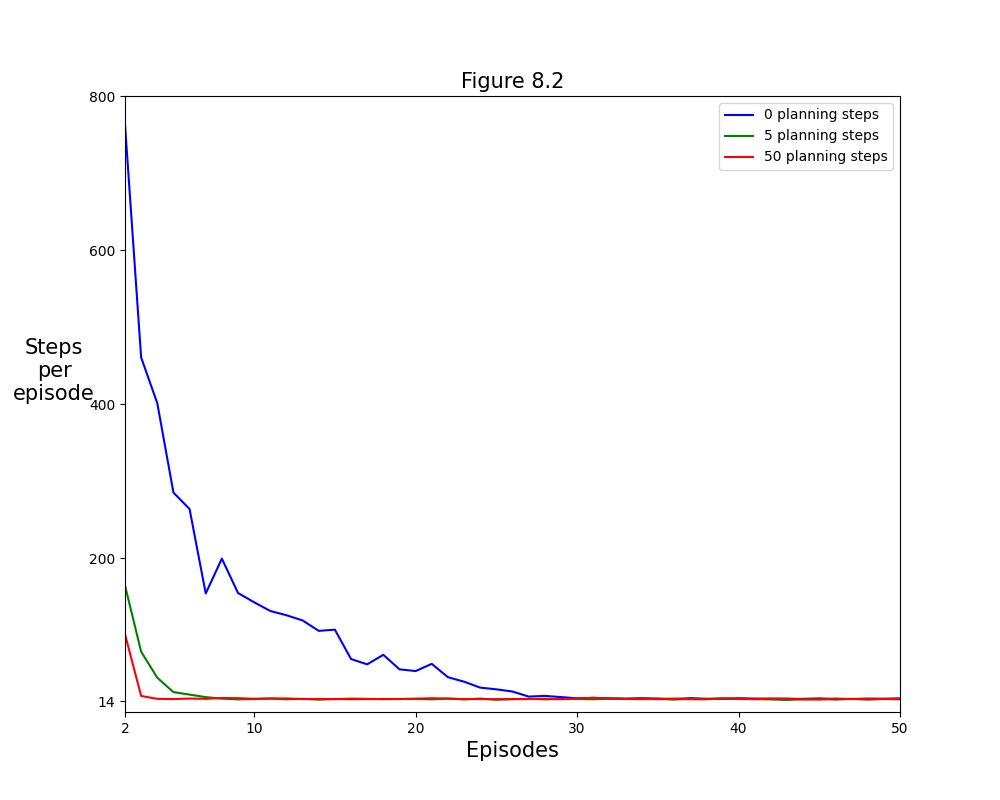
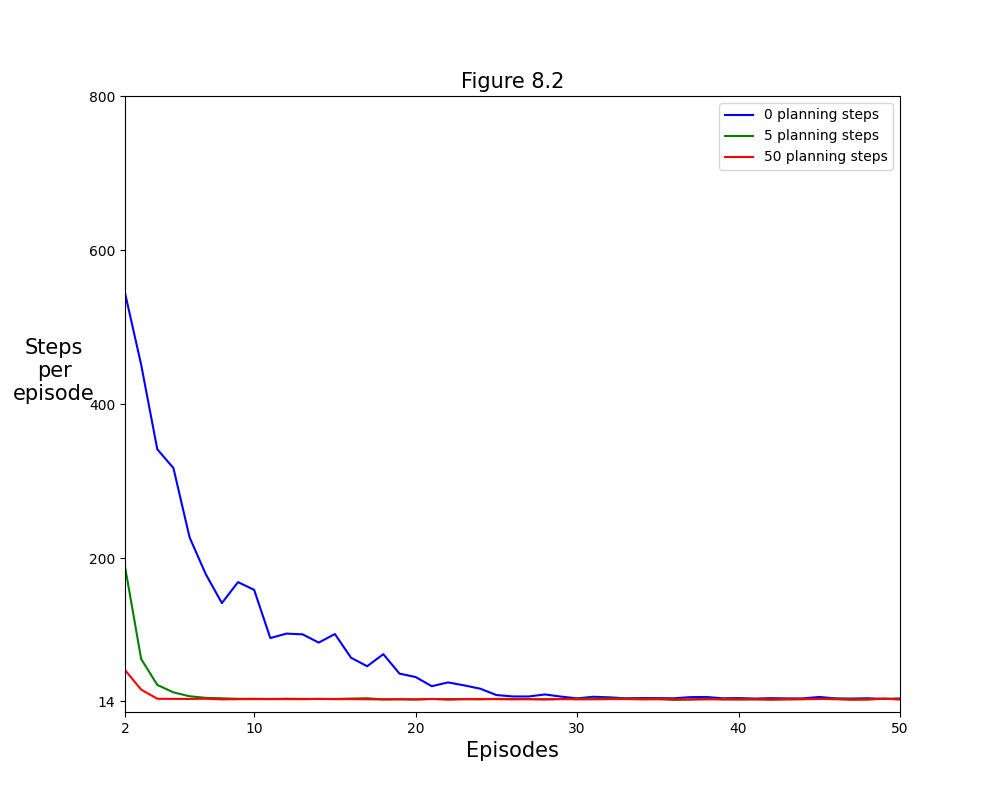
ex8.1

diff --git a/chapter8/nstep_sarsa.py b/chapter8/nstep_sarsa.py
@@ -1,0 +1,135 @@
+import numpy as np
+import copy
+
+class TD:
+  def __init__(self, env, V_init=None, step_size=None, gamma=0.9, n=1):
+    self.env = env
+    self.gamma = gamma
+    self.V_init = V_init
+    self.step_size = step_size
+    self.n = n
+    self.reset()
+
+  def sample_action(self, pi, s):
+    pi_dist = [pi[(a, s)] for a in self.env.moves_d[s]]
+    return self.env.moves_d[s][np.random.choice(np.arange(len(self.env.moves_d[s])), p=pi_dist)]
+  
+  def seed(self, seed):
+    self.env.seed(seed)
+    np.random.seed(seed)
+ 
+  def get_value_list(self):
+    return [val for key,val in self.V.items()]
+  
+  def reset(self):
+    self.V = {s: 0 for s in self.env.states} if self.V_init is None else copy.deepcopy(self.V_init)
+
+class nStepTD(TD):
+  def __init__(self, env, V_init=None, step_size=None, gamma=0.9, n=1, ex_7_2=False):
+    super().__init__(env, V_init, step_size, gamma, n)
+    self.reset()
+
+  def get_r_values(self, R, i, j):
+    n = self.n
+    orig_mod = mod_idx = i % (n + 1)
+    goal = j % (n + 1)
+    R_vals = []
+    while True:
+      R_vals.append(R[mod_idx])
+      mod_idx = (mod_idx + 1) % (n + 1)
+      if mod_idx == goal:
+        return R_vals
+
+  def reset(self):
+    self.gamma_l = [self.gamma ** k for k in range(self.n + 1)]
+    self.S = [None for _ in range(self.n + 1)]
+    self.R = [None for _ in range(self.n + 1)]
+    super().reset() 
+
+
+class nStepSarsa(nStepTD):
+  def __init__(self, env, step_size=0.1, gamma=0.9, n=1, eps=0.1, exp_sar=False): 
+    super().__init__(env, None, step_size, gamma, n)
+    self.update_pi = self.update_policy(eps)
+    self.exp_sar = exp_sar
+    self.reset()
+
+  def eps_gre(self, eps):
+    def eps_gre_pol(s):
+      if np.random.random() < eps:
+        return self.random_move(s)
+      q_arr = np.array([self.Q[(s, a)] for a in self.env.moves_d[s]])
+      return self.env.moves_d[s][np.random.choice(np.flatnonzero(q_arr == q_arr.max()))]
+    return eps_gre_pol
+ 
+  def update_policy(self, eps):
+    def update_on_q_values(s):
+      best_a = self.eps_gre(0)(s)
+      moves = self.env.moves_d[s]
+      soft_min = eps / len(moves)
+      for a in moves:
+        self.pi[(a, s)] = soft_min + (1 - eps) * (a == best_a)
+    return update_on_q_values
+
+  def initialize_pi(self):
+    self.pi = {}
+    for s in self.env.states:
+      self.update_pi(s)
+    return self.pi
+ 
+  def exp_val(self, s):
+    return sum(self.pi[(a, s)] * self.Q[(s, a)] for a in self.env.moves_d[s])
+
+  def n_step_return_q(self, tau, T):
+    n = self.n
+    max_idx = min(tau + n, T)
+    r_vals = self.get_r_values(self.R, tau + 1, max_idx + 1)
+    G = np.dot(self.gamma_l[:max_idx-tau], r_vals)
+    if tau + n < T:
+      tau_p_n = (tau + n) % (n + 1)
+      s, a = self.S[tau_p_n], self.A[tau_p_n]
+      last_term = self.Q[(s, a)] if not self.exp_sar else self.exp_val(s)
+      G = G + self.gamma_l[n] * last_term
+    return G
+
+  def pol_eval(self, n_ep=100, pi=None):
+    n, R, S, Q, A = self.n, self.R, self.S, self.Q, self.A
+    pi_learned = pi is None
+    self.pi = self.initialize_pi() if pi_learned else pi
+    ep_per_t = [] 
+    for ep in range(n_ep):
+      S[0] = self.env.reset()
+      A[0] = self.sample_action(self.pi, S[0])
+      T = np.inf
+      t = 0
+      while True:
+        ep_per_t.append(ep)
+        tm, tp1m = t % (n + 1), (t + 1) % (n + 1)
+        if t < T:
+          S[tp1m], R[tp1m], d, _ = self.env.step(A[tm])
+          if d:
+            T = t + 1
+          else:
+            A[tp1m] = self.sample_action(self.pi, S[tp1m])
+        tau = t - n + 1
+        if tau >= 0:
+          G = self.n_step_return_q(tau, T)
+          taum = tau % (n + 1)
+          s, a = S[taum], A[taum]
+          Q[(s, a)] += self.step_size * (G - Q[(s, a)])
+          if pi_learned:
+            self.update_pi(s)
+        if tau == (T - 1):
+          break
+        t += 1
+    return ep_per_t
+
+
+  def get_v(self):
+    return {s: max(self.Q[(s, a)] for a in self.env.moves_d[s]) for s in self.env.states} 
+
+  def reset(self):
+    super().reset()
+    self.Q = {(s, a): 0 for s in self.env.states for a in self.env.moves_d[s]}
+    self.A = [None for _ in range(self.n + 1)]
+

diff --git a/chapter8/figures.py b/chapter8/figures.py
@@ -7,6 +7,7 @@ from tabular_q import TabularQ
 from utils import sample, to_arr
 import seaborn as sns
 import numpy as np
+from nstep_sarsa import nStepSarsa
 
 SEC_8_1_ALP = 0.001
 SEC_8_1_N_STEPS = int(1e6)
@@ -20,6 +21,7 @@ FIG_8_2_N_RUNS = 30
 FIG_8_3_PLAN_STEPS = [0, 50]
 FIG_8_3_HEAT_LAB = {(0, -1): 'left', (0, 1): 'right', (-1, 0): 'up', (1, 0): 'down'}
 BIG_FONT = 15
+EX_8_1_N_LIST = [5, 50]
 
 def save_plot(filename, dpi=None):
   plt.savefig('plots/' + filename + '.png', dpi=dpi)
@@ -38,8 +40,7 @@ def section_8_1():
 def fig_8_2():
   fig, ax = plt.subplots()
   env = DynaMaze()
-  alg = DynaQ(env, SEC_8_1_ALP, DYNA_MAZE_GAMMA, FIG_8_2_EPS)
-  alg.seed(0)
+  alg = DynaQ(env, FIG_8_2_ALP, DYNA_MAZE_GAMMA, FIG_8_2_EPS)
   xticks = [2, 10, 20, 30, 40, 50]
   yticks = [14, 200, 400, 600, 800]
   ax.set_title('Figure 8.2', fontsize=BIG_FONT)
@@ -50,12 +51,11 @@ def fig_8_2():
   ax.set_xlabel('Episodes', fontsize=BIG_FONT)
   ax.set_ylabel('Steps\nper\nepisode', rotation=0, labelpad=25, fontsize=BIG_FONT)
   ep_ticks = list(range(2, 51))
+  alg.seed(0)
   for n_plan_steps in FIG_8_2_PLAN_STEPS:
     arr_sum = np.zeros(FIG_8_2_N_EP)
-    for seed in range(FIG_8_2_N_RUNS):
-      print(seed)
+    for _ in range(FIG_8_2_N_RUNS):
       alg.reset()
-      alg.seed(seed)
       arr_sum += np.array(alg.tabular_dyna_q(FIG_8_2_N_EP, n_plan_steps))
     plt.plot(ep_ticks, (arr_sum / FIG_8_2_N_RUNS)[1:], label=f'{n_plan_steps} planning steps', color=FIG_8_2_C_DIC[n_plan_steps])
   plt.legend()
@@ -79,7 +79,7 @@ def fig_8_3():
   fig = plt.figure()
   fig.suptitle('Figure 8.3 - Policies found by Dyna-Q after 2 episodes', fontsize=BIG_FONT)
   env = DynaMaze()
-  alg = DynaQ(env, SEC_8_1_ALP, DYNA_MAZE_GAMMA, FIG_8_2_EPS)
+  alg = DynaQ(env, FIG_8_2_ALP, DYNA_MAZE_GAMMA, FIG_8_2_EPS)
   action_dict = {move_id: env.moves[move_id - 1] for move_id in range(1, len(env.moves) + 1)}
   heatmap_label = '0 = all equal'
   for move_id, move in action_dict.items():
@@ -95,10 +95,32 @@ def fig_8_3():
   save_plot('fig8.3', dpi=100)
   plt.show()
 
+def ex_8_1():
+  fig = plt.figure()
+  fig.suptitle('Exercise 8.1 - Policies found by n-step sarsa after 2 episodes', fontsize=BIG_FONT)
+  env = DynaMaze()
+  action_dict = {move_id: env.moves[move_id - 1] for move_id in range(1, len(env.moves) + 1)}
+  heatmap_label = '0 = all equal'
+  for move_id, move in action_dict.items():
+    heatmap_label += f', {move_id}: {FIG_8_3_HEAT_LAB[move]}'
+  for (i, n) in enumerate(EX_8_1_N_LIST): 
+    alg = nStepSarsa(env, step_size=FIG_8_2_ALP, gamma=DYNA_MAZE_GAMMA, n=n)
+    alg.seed(0)
+    alg.reset()
+    ax = fig.add_subplot(f'12{i + 1}')
+    ax.set_title(f'n={n}')
+    alg.pol_eval(n_ep=2)
+    sns.heatmap(to_arr(get_dyna_maze_pol(env, alg.Q)), cbar_kws={'label': heatmap_label if i == 0 else None}, xticklabels=False, yticklabels=False)
+  fig.set_size_inches(10, 8)
+  save_plot('ex8.1', dpi=100)
+  plt.show()
+
+
 PLOT_FUNCTION = {
   'section8.1': section_8_1,
   '8.2': fig_8_2,
   '8.3': fig_8_3, 
+  'ex8.1': ex_8_1,
 }
 
 def main():
@@ -106,9 +128,15 @@ def main():
 
   parser.add_argument('figure', type=str, default=None,
                       help='Figure to reproduce.',
-                      choices=list(PLOT_FUNCTION.keys()))
+                      choices=list(PLOT_FUNCTION.keys()) + ['all'])
   args = parser.parse_args()
-  PLOT_FUNCTION[args.figure]()
+  if args.figure == 'all':
+    for key, f in PLOT_FUNCTION.items():
+      print(f"[{key}]")
+      f()
+  else:
+    print(f"[{args.figure}]")
+    PLOT_FUNCTION[args.figure]()
 
 if __name__ == '__main__':
   main()
